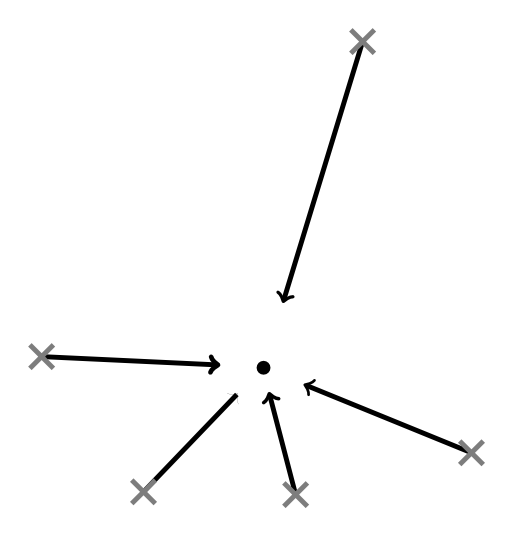
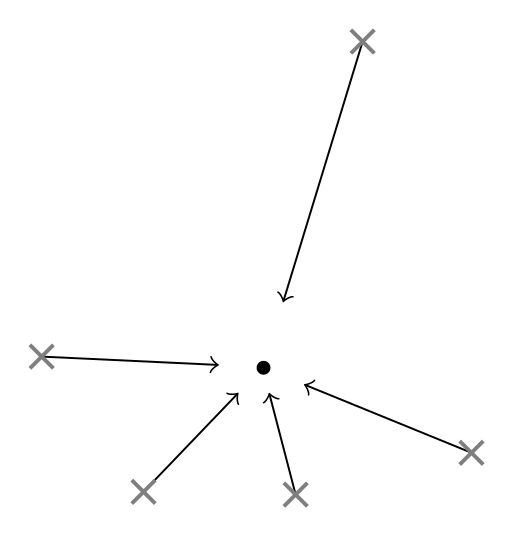
Add README.md and rendered image to 6 tikz examples
The examples were found by

```bash
$ find . -type d '!' -exec test -e "{}/README.md" ';' -print
```

diff --git a/tikz/center/tikz.py b/tikz/center/tikz.py
@@ -1,6 +1,8 @@
+#!/usr/bin/env python
+# -*- coding: utf-8 -*-
+
 from random import uniform
 import random
-import math
 
 n = 5
 xMin, yMin = 0, 0
@@ -12,29 +14,30 @@ coordinates = []
 random.seed(42)
 
 for i in range(n):
-	x = uniform(xMin, xMax)
-	y = uniform(yMin, yMax)
-	xSum += x
-	ySum += y
-	coordinates.append((x,y))
+    x = uniform(xMin, xMax)
+    y = uniform(yMin, yMax)
+    xSum += x
+    ySum += y
+    coordinates.append((x, y))
 
 center = (float(xSum) / n, float(ySum) / n)
 
 cx, cy = center
-pointCoords = ""
+point_coords = ""
 for p in coordinates:
-	px, py = p	
-	newP = "(%.2f,%.2f)," % (px, py)
-	pointCoords = newP + pointCoords
-	deltaY = cy-py
-	deltaX = cx-px
-	length = (deltaY**2+deltaX**2)**0.5
-	sinAlpha = deltaY/length
-	cosAlpha = deltaX/length
-	print("\draw[->] (%.2f,%.2f) -- (%.2f,%.2f);" % (px, py, px+cosAlpha*length*0.80, py+sinAlpha*length*0.80))
+    px, py = p
+    new_p = "(%.2f,%.2f)," % (px, py)
+    point_coords = new_p + point_coords
+    delta_y = cy-py
+    delta_x = cx-px
+    length = (delta_y**2+delta_x**2)**0.5
+    sin_alpha = delta_y/length
+    cos_alpha = delta_x/length
+    print("\draw[->] (%.2f,%.2f) -- (%.2f,%.2f);" %
+          (px, py, px + cos_alpha*length*0.80, py + sin_alpha*length*0.80))
 
 print("\\node[circle,inner sep=1pt,fill]  at (%.2f,%.2f) {};" % (cx, cy))
 
-print("\\foreach \point in {" + pointCoords + "}{")
+print("\\foreach \point in {" + point_coords + "}{")
 print("\\node[dot] at \point {};")
 print("}")

diff --git a/tikz/bellman-ford-algorithm/README.md b/tikz/bellman-ford-algorithm/README.md
@@ -1,0 +1,6 @@
+TODO: Not ready, make ready!
+
+
+Compiled example
+----------------
+![Example](bellman-ford-algorithm.gif)

diff --git a/tikz/cubic-function-intermediate-value-theorem/README.md b/tikz/cubic-function-intermediate-value-theorem/README.md
@@ -1,0 +1,3 @@
+Compiled example
+----------------
+![Example](cubic-function-intermediate-value-theorem.png)

diff --git a/tikz/resource-allocation-graph/README.md b/tikz/resource-allocation-graph/README.md
@@ -1,0 +1,3 @@
+Compiled example
+----------------
+![Example](resource-allocation-graph.png)

diff --git a/tikz/dirichlet-function/README.md b/tikz/dirichlet-function/README.md
@@ -1,0 +1,3 @@
+Compiled example
+----------------
+![Example](dirichlet-function.png)

diff --git a/tikz/jordan-normal-form/README.md b/tikz/jordan-normal-form/README.md
@@ -1,0 +1,3 @@
+Compiled example
+----------------
+![Example](jordan-normal-form.png)

diff --git a/tikz/center/README.md b/tikz/center/README.md
@@ -1,0 +1,3 @@
+Compiled example
+----------------
+![Example](center.png)
